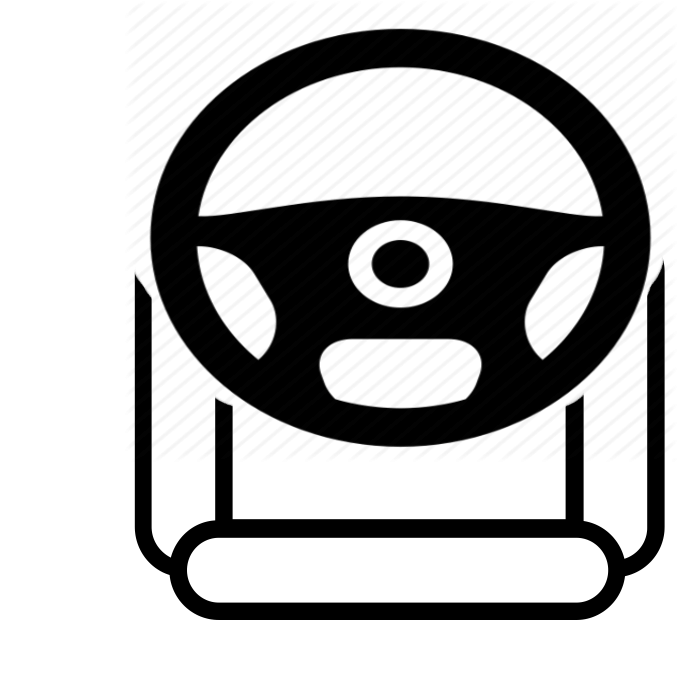
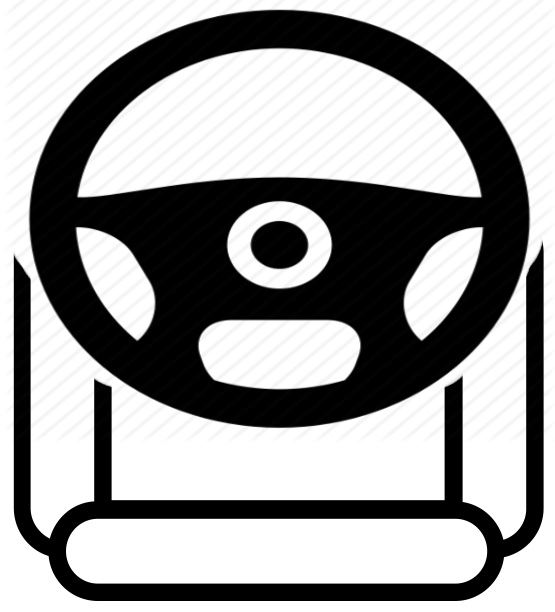
checktopsdasdasdsdassdsdsdsadsadsad

diff --git a/src/app/booking-results/booking-results.component.html b/src/app/booking-results/booking-results.component.html
@@ -431,13 +431,13 @@
                    [class.seat-selected]="seat.status === 'selected'"
                    [class.seat-booked]="seat.status === 'booked'"
                    (click)="selectSeatFromPopup(seat)">
-                <img src="../../assets/images/carmodule/Seat-finall.png" alt="Seat" class="seat-watermark-img">
+                <img src="../../assets/images/carmodule/seat.png" alt="Seat" class="seat-watermark-img">
                 <span class="seat-number-big">{{ seat.number }}</span>
               </div>
             </ng-container>
             <!-- Driver Seat -->
             <div class="seat-item">
-              <div class="steering-icon"><img src="../../assets/images/carmodule/driver-seat.png" alt="Driver" class="driver-img"></div>
+              <div class="steering-icon"><img src="../../assets/images/carmodule/driver.png" alt="Driver" class="driver-img"></div>
             </div>
           </div>
 
@@ -449,7 +449,7 @@
                    [class.seat-selected]="seat.status === 'selected'"
                    [class.seat-booked]="seat.status === 'booked'"
                    (click)="selectSeatFromPopup(seat)">
-                <img src="../../assets/images/carmodule/Seat-finall.png" alt="Seat" class="seat-watermark-img">
+                <img src="../../assets/images/carmodule/seat.png" alt="Seat" class="seat-watermark-img">
                 <span class="seat-number-big">{{ seat.number }}</span>
               </div>
             </ng-container>
@@ -463,7 +463,7 @@
                    [class.seat-selected]="seat.status === 'selected'"
                    [class.seat-booked]="seat.status === 'booked'"
                    (click)="selectSeatFromPopup(seat)">
-                <img src="../../assets/images/carmodule/Seat-finall.png" alt="Seat" class="seat-watermark-img">
+                <img src="../../assets/images/carmodule/seat.png" alt="Seat" class="seat-watermark-img">
                 <span class="seat-number-big">{{ seat.number }}</span>
               </div>
             </ng-container>

diff --git a/src/app/booking-results/booking-results.component.css b/src/app/booking-results/booking-results.component.css
@@ -1,5 +1,12 @@
 @import url('https://cdnjs.cloudflare.com/ajax/libs/font-awesome/6.0.0/css/all.min.css');
 
+/* Component Host - Ensure no overflow constraints that prevent sticky positioning */
+:host {
+  display: block;
+  width: 100%;
+  overflow: visible;
+}
+
 /* Global Styles with Modern Typography */
 * {
   box-sizing: border-box;
@@ -29,20 +36,28 @@ img {
   overflow-x: hidden;
   box-sizing: border-box;
 }
+.steering-icon img{
+  width:90% !important;
+}
 
-/* Glassmorphic Search Summary */
+/* Glassmorphic Search Summary - Sticky Positioning */
+/* Note: For sticky to work, parent containers must NOT have overflow: hidden/auto/scroll */
+/* top: 75px accounts for navbar height (approximately 70-75px) */
 .search-summary {
   background: #ffffff;
-  border: 1px solid #e5e7eb;
+  /* border: 1px solid #e5e7eb; */
   box-shadow: 0 4px 14px rgba(15, 23, 42, 0.05);
   border-radius: 12px;
   padding: 15px !important;
-  position: relative;
-  overflow: hidden;
+  position: -webkit-sticky;
+  position: sticky;
+  top: 75px;
+  z-index: 99;
   transition: all 0.2s ease;
   width: 100%;
   max-width: 100%;
-  margin: 10px 0 14px 0;
+  /* margin: 10px 0 14px 0; */
+  will-change: transform;
 }
 
 /* Sticky header disabled – keep same style when toggled */

diff --git a/src/app/checkout/checkout.component.css b/src/app/checkout/checkout.component.css
@@ -237,7 +237,6 @@ html, body {
   display: grid;
   grid-template-columns: 1fr 1fr;
   gap: 20px;
-  margin-bottom: 24px;
 }
 
 .form-field {
